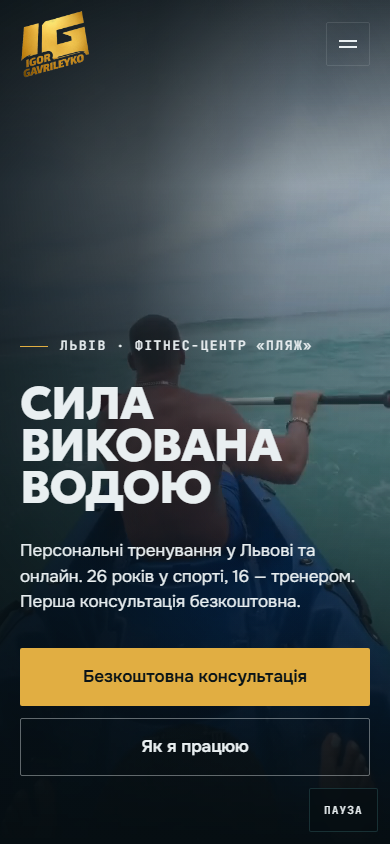
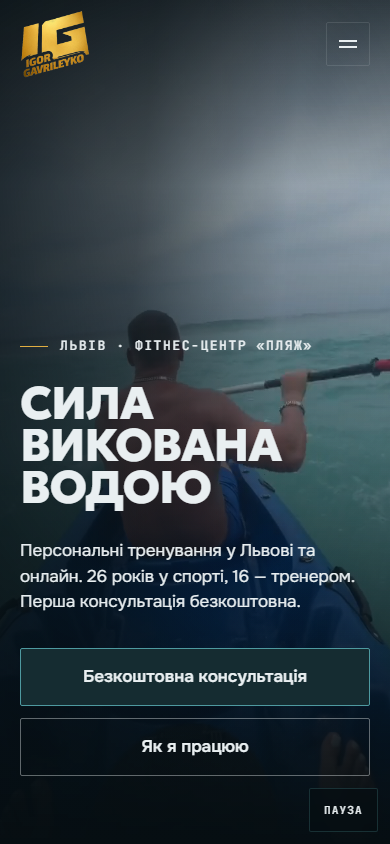
fix(cta): restrain the mobile hero button too, and repair a botched CSS edit
The brief said the mobile CTA competes with the gold logo. On mobile the hero
button is full-width and sits a few hundred pixels below a large gold mark,
which is that clash — so it takes the azure treatment as well. Desktop keeps
gold: there it is a compact button far from the logo.

Also repairs .btn-ghost. Promoting .btn-water into the base layer used a
replace that matched both `.btn-ghost {` occurrences, which broke the
.section--light override apart and left a GLOBAL rule painting every ghost
button in --ink — dark text on a dark ground. Caught by re-reading the file,
not by the build, since malformed-but-valid CSS compiles fine.

The hero ghost button is now in the contrast probe (16.75:1) so the same class
of mistake fails the next run.

diff --git a/src/styles/base.css b/src/styles/base.css
@@ -180,6 +180,19 @@ p { max-width: 68ch; }
 }
 .btn-primary:hover { background: var(--gold-deep); }
 
+/* Azure action. Used where a gold fill would sit next to the gold logo and
+   read as an advert — the whole mobile column, in practice. Visible without
+   shouting, and in the water half of the palette rather than the metal half. */
+.btn-water {
+  background: color-mix(in oklab, var(--caustic) 16%, var(--deep));
+  border-color: var(--caustic);
+  color: var(--foam);
+}
+.btn-water:hover {
+  background: color-mix(in oklab, var(--caustic) 26%, var(--deep));
+  border-color: var(--foam);
+}
+
 .btn-ghost {
   background: transparent;
   color: var(--foam);
